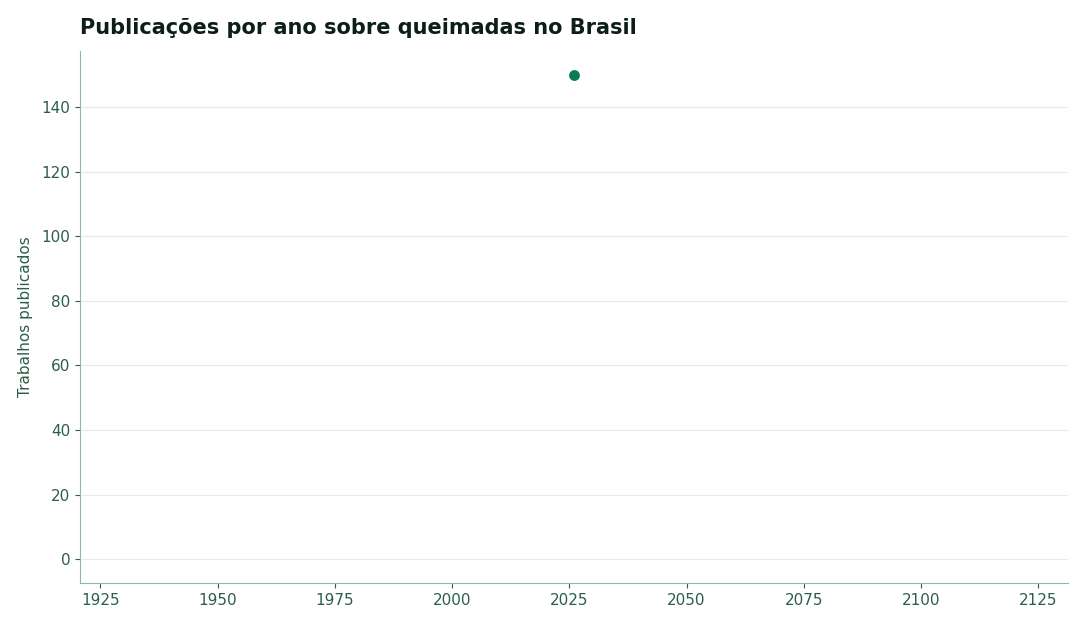
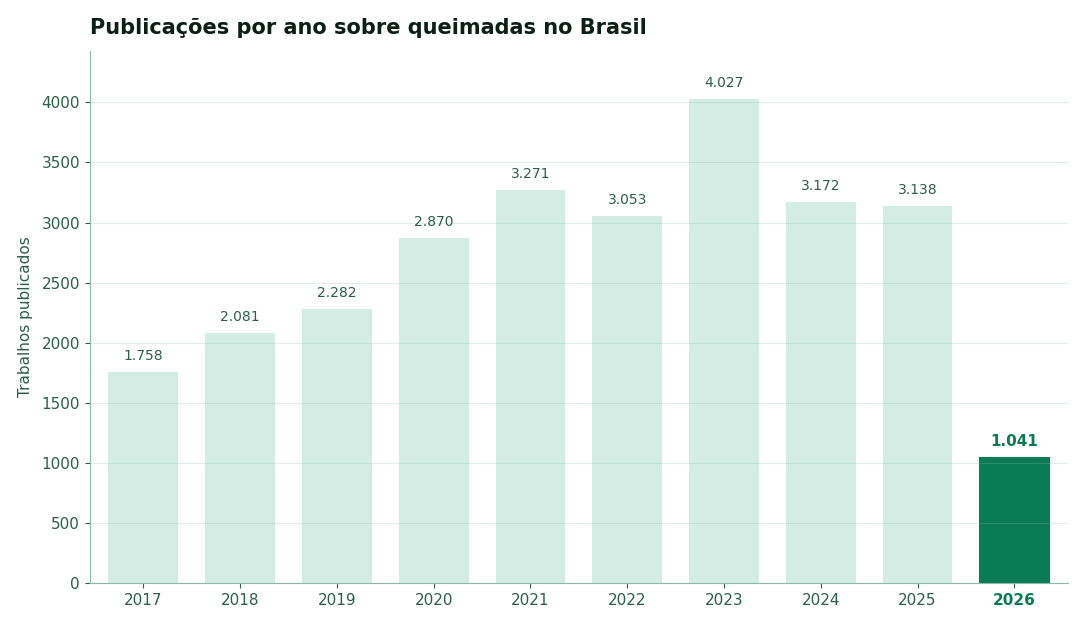
dev: pivoting to histogram and smaller font

diff --git a/apps/social-post-templates/white/slides/body-chart.html b/apps/social-post-templates/white/slides/body-chart.html
@@ -32,7 +32,7 @@
           <p class="leading-snug font-semibold mb-2 text-sm uppercase tracking-widest" style="color: var(--accent); white-space: pre-line;" data-slot="caption">
             Focos por mês (Brasil) · BDQueimadas, publicado pelo INPE
           </p>
-          <p class="leading-relaxed" style="font-size: 30px; color: var(--text-secondary);" data-slot="body_text">
+          <p class="leading-snug" style="font-size: 22px; color: var(--text-secondary); white-space: pre-line; text-align: left; hyphens: none; -webkit-hyphens: none;" data-slot="body_text">
             Texto de contexto sobre o gráfico e a leitura dos dados.
           </p>
         </div>

diff --git a/src/forest_pipelines/social/research_trends/pipeline.py b/src/forest_pipelines/social/research_trends/pipeline.py
@@ -347,26 +347,30 @@ def _validate_with_crossref(
 
 def _render_charts(
     agg: Aggregation,
+    yearly_counts_10y: dict[int, int],
     trends_payload: dict[str, Any] | None,
     out_dir: Path,
     topic: TopicConfig,
+    highlight_year: int,
 ) -> dict[str, Path]:
     out_dir.mkdir(parents=True, exist_ok=True)
     paths: dict[str, Path] = {}
 
     paths[CHART_PUB_YEAR] = out_dir / f"research-{CHART_PUB_YEAR}.png"
     render_publications_per_year(
-        agg.publications_per_year,
+        yearly_counts_10y,
         paths[CHART_PUB_YEAR],
         title=f"Publicações por ano sobre {topic.body_subject_phrase}",
+        highlight_year=highlight_year,
     )
 
-    if trends_payload and trends_payload.get("series") and agg.publications_per_year:
+    pubs_series_for_trends = [{"year": y, "count": c} for y, c in sorted(yearly_counts_10y.items())]
+    if trends_payload and trends_payload.get("series") and pubs_series_for_trends:
         first_term = next(iter(trends_payload["series"].keys()))
         paths[CHART_TRENDS] = out_dir / f"research-{CHART_TRENDS}.png"
         render_trends_vs_publications(
             trends_payload["series"][first_term],
-            agg.publications_per_year,
+            pubs_series_for_trends,
             paths[CHART_TRENDS],
             title="Interesse público vs produção científica",
             trends_label=f"Google Trends · {first_term}",
@@ -400,15 +404,24 @@ def _render_charts(
 
 
 def _format_top_cited_lines(
-    items: list[dict[str, Any]], *, field_key: str, limit: int = 5
+    items: list[dict[str, Any]], *, field_key: str, limit: int = 3
 ) -> str:
+    """Render the top-cited works as a multi-line list.
+
+    Each line is short enough to fit the body-chart slot at ~22px font. Title
+    is truncated; year and the side field (institution/concept/venue) are
+    joined with commas. The slide CSS must use white-space: pre-line so the
+    newlines survive into the rendered post.
+    """
     if not items:
         return ""
     lines = []
     for i, item in enumerate(items[:limit], 1):
         right = item.get(field_key) or ""
         year = item.get("year") or "s/d"
-        lines.append(f"{i}. {item['title']} ({year}) — {right}")
+        title = item.get("title") or ""
+        title = title if len(title) <= 60 else title[:59].rstrip() + "..."
+        lines.append(f"{i}. {title} ({year}), {right}")
     return "\n".join(lines)
 
 
@@ -444,24 +457,33 @@ def _cover_summary(agg: Aggregation, config: PipelineConfig) -> str:
     return f"Sem publicações indexadas pelo OpenAlex no recorte atual ({today_human})."
 
 
-def _publications_body(agg: Aggregation, config: PipelineConfig) -> str:
-    pubs = agg.publications_per_year
-    if not pubs:
+def _publications_body(
+    yearly_counts: dict[int, int], highlight_year: int, topic: TopicConfig
+) -> str:
+    if not yearly_counts:
         return (
-            "Nenhum trabalho indexado pelo OpenAlex no intervalo analisado. "
-            "Tente ampliar a janela de data ou revisar a estratégia de busca."
+            "Nenhum trabalho indexado pelo OpenAlex nos últimos 10 anos para a "
+            "estratégia de busca atual. Revise o tema ou amplie os filtros."
         )
-    latest = pubs[-1]
-    prior = pubs[-2] if len(pubs) >= 2 else None
+    cy_count = yearly_counts.get(highlight_year, 0)
+    total_10y = sum(yearly_counts.values())
+    today = date.today()
+    is_partial = highlight_year == today.year and today.month < 12
     base = (
-        f"Em {latest['year']}, {latest['count']} trabalhos foram indexados pelo OpenAlex "
-        f"dentro da estratégia de busca atual"
+        f"Últimos 10 anos: {total_10y} trabalhos sobre {topic.body_subject_phrase} "
+        f"indexados pelo OpenAlex."
     )
-    if prior and prior.get("count"):
-        delta = (latest["count"] - prior["count"]) / prior["count"] * 100.0
-        sign = "alta" if delta >= 0 else "queda"
-        base += f", uma {sign} de {abs(delta):.1f}% sobre {prior['year']}"
-    base += "."
+    if is_partial:
+        base += (
+            f" Em {highlight_year} (ano em curso), {cy_count} trabalhos até o momento."
+        )
+    else:
+        prior_count = yearly_counts.get(highlight_year - 1, 0)
+        base += f" Em {highlight_year}, {cy_count} trabalhos."
+        if prior_count > 0:
+            delta = (cy_count - prior_count) / prior_count * 100.0
+            sign = "alta" if delta >= 0 else "queda"
+            base += f" {sign.capitalize()} de {abs(delta):.1f}% sobre {highlight_year - 1}."
     return base
 
 
@@ -477,9 +499,9 @@ def _top_with_papers_body(
         return "Sem dados suficientes no recorte atual."
     head = (
         f"{article} {suffix} mais frequente é {items[0]['label']}, com {items[0]['count']} "
-        f"trabalhos no recorte analisado.\n\nMais citados:\n"
+        f"trabalhos no recorte.\n\nMais citados no recorte:\n"
     )
-    return head + _format_top_cited_lines(agg.top_cited_works, field_key=top_field, limit=5)
+    return head + _format_top_cited_lines(agg.top_cited_works, field_key=top_field, limit=3)
 
 
 # ── Manifest emission ────────────────────────────────────────────────────────
@@ -487,6 +509,7 @@ def _top_with_papers_body(
 
 def _build_manifest(
     agg: Aggregation,
+    yearly_counts_10y: dict[int, int],
     chart_paths: dict[str, Path],
     trends_payload: dict[str, Any] | None,
     config: PipelineConfig,
@@ -514,9 +537,9 @@ def _build_manifest(
             "slots": {
                 "topic_tag": topic.cover_topic_tag,
                 "published_at": published_at,
-                "caption": f"Publicações por ano · OpenAlex ({config.mode})",
+                "caption": f"Publicações por ano · OpenAlex (últimos 10 anos)",
                 "image_url": img(CHART_PUB_YEAR),
-                "body_text": _publications_body(agg, config),
+                "body_text": _publications_body(yearly_counts_10y, today.year, topic),
             },
         },
     ]
@@ -673,13 +696,46 @@ def run(config: PipelineConfig) -> None:
 
     agg = _aggregate(works, config.topic)
 
+    # Always pull a 10-year yearly histogram for the topic via OpenAlex
+    # group_by — this is one cheap request and decouples the bar chart from
+    # the mode's date window. Without this, recent-mode runs would render a
+    # single-bar chart (only the current year), which is misleading.
+    today = date.today()
+    histogram_end = today.year
+    histogram_start = histogram_end - 9
+    histogram_filter = ",".join(
+        list(config.topic.extra_filters)
+        + [
+            f"from_publication_date:{histogram_start}-01-01",
+            f"to_publication_date:{histogram_end}-12-31",
+        ]
+    )
+    histogram_cache_key = f"{config.topic.slug}_{histogram_start}_{histogram_end}"
+    yearly_counts_10y = openalex.count_by_year(
+        search=config.topic.search_query,
+        filter_str=histogram_filter,
+        cache_key=histogram_cache_key,
+    )
+    LOG.info(
+        "research_trends.yearly_counts_loaded years=%d total=%d",
+        len(yearly_counts_10y),
+        sum(yearly_counts_10y.values()),
+    )
+
     if not config.skip_google_trends and config.topic.google_trends_terms:
         trends_client = GoogleTrendsClient(cache_dir=config.cache_dir)
         trends_payload = trends_client.interest_over_time(list(config.topic.google_trends_terms))
     else:
         trends_payload = None
 
-    chart_paths = _render_charts(agg, trends_payload, config.out_dir, config.topic)
+    chart_paths = _render_charts(
+        agg,
+        yearly_counts_10y,
+        trends_payload,
+        config.out_dir,
+        config.topic,
+        highlight_year=histogram_end,
+    )
     LOG.info("research_trends.charts_rendered count=%d", len(chart_paths))
 
     validation = _validate_with_crossref(works, crossref, sample=config.crossref_sample)
@@ -687,8 +743,12 @@ def run(config: PipelineConfig) -> None:
     audit_path.write_text(json.dumps(validation, ensure_ascii=False, indent=2))
     LOG.info("research_trends.crossref_audited n=%d path=%s", len(validation), audit_path.name)
 
+    pub_year_spec = [
+        {"year": y, "count": c, "highlight": y == today.year}
+        for y, c in sorted(yearly_counts_10y.items())
+    ]
     for key, data in (
-        (CHART_PUB_YEAR, agg.publications_per_year),
+        (CHART_PUB_YEAR, pub_year_spec),
         (CHART_INSTITUTIONS, agg.top_institutions),
         (CHART_CONCEPTS, agg.top_concepts),
         (CHART_VENUES, agg.top_venues),
@@ -698,7 +758,7 @@ def run(config: PipelineConfig) -> None:
             json.dumps(data, ensure_ascii=False, indent=2)
         )
 
-    manifest = _build_manifest(agg, chart_paths, trends_payload, config)
+    manifest = _build_manifest(agg, yearly_counts_10y, chart_paths, trends_payload, config)
     config.manifest_path.parent.mkdir(parents=True, exist_ok=True)
     config.manifest_path.write_text(json.dumps(manifest, ensure_ascii=False, indent=2))
     config.public_manifest_path.parent.mkdir(parents=True, exist_ok=True)
@@ -817,13 +877,20 @@ def main(argv: list[str] | None = None) -> int:
 
     if args.refresh:
         prefix = _cache_key(topic, mode, from_date, to_date, sort)
+        deleted: list[Path] = []
         target = args.cache_dir / f"openalex_{prefix}.json"
         if target.exists():
             target.unlink()
-            LOG.info("research_trends.cache_cleared path=%s", target)
-        # Also drop google trends caches: they aren't keyed by date window.
+            deleted.append(target)
+        # Group-by year cache (keyed by topic+window range).
+        for path in args.cache_dir.glob(f"openalex_groupby_{topic.slug}_*.json"):
+            path.unlink()
+            deleted.append(path)
+        # Google Trends cache (not keyed by date window).
         for path in args.cache_dir.glob("google_trends_*.json"):
             path.unlink()
+            deleted.append(path)
+        LOG.info("research_trends.cache_cleared n=%d", len(deleted))
 
     config = PipelineConfig(
         topic=topic,